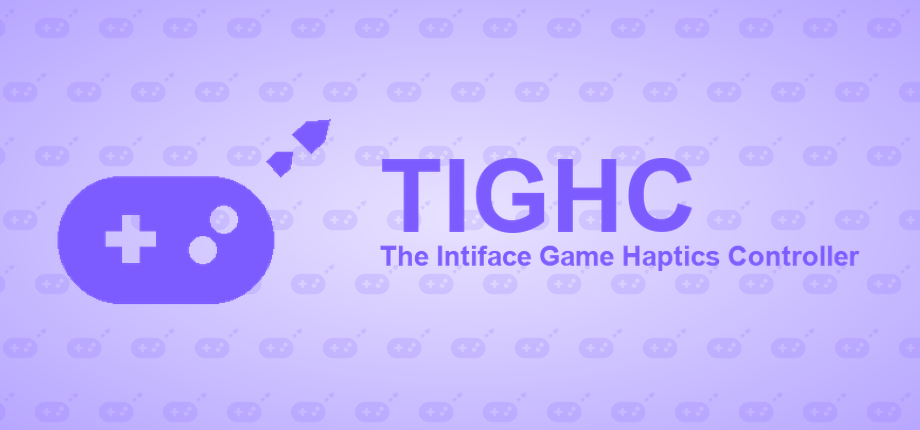
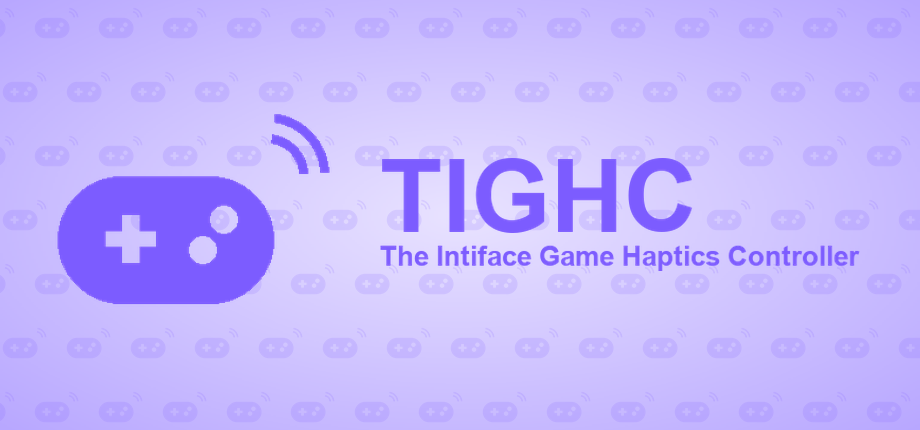
Release v6.3.4
See CHANGELOG.md for details.

Changed region(s): [[0.2739, 0.2721, 0.3652, 0.4233]]

diff --git a/CHANGELOG.md b/CHANGELOG.md
@@ -5,6 +5,14 @@ All notable changes to this project are documented here. Versioning follows
 mark breaking config-format/behavior changes, MINOR marks backward-compatible
 feature additions, PATCH marks fixes.
 
+## [6.3.4] - 2026-09-14
+
+### Fixed
+- Regenerated `assets/steam/*` (`create_steam_assets.py`) from the
+  corrected icon/logo (v6.3.3) — the Steam library artwork's tiled
+  background pattern and icon marks were still showing the old
+  disconnected comet-shaped wave ticks.
+
 ## [6.3.3] - 2026-09-14
 
 ### Fixed

diff --git a/README.md b/README.md
@@ -9,7 +9,7 @@
 > for use only by adults aged 18 or older. `gui.py` requires you to confirm
 > this before it'll start.
 
-**Version 6.3.3** — see [CHANGELOG.md](CHANGELOG.md) for release history.
+**Version 6.3.4** — see [CHANGELOG.md](CHANGELOG.md) for release history.
 
 Haptic feedback for your games, driven by the keys you're already pressing.
 

diff --git a/VERSION.md b/VERSION.md
@@ -1,1 +1,1 @@
-6.3.3
+6.3.4
